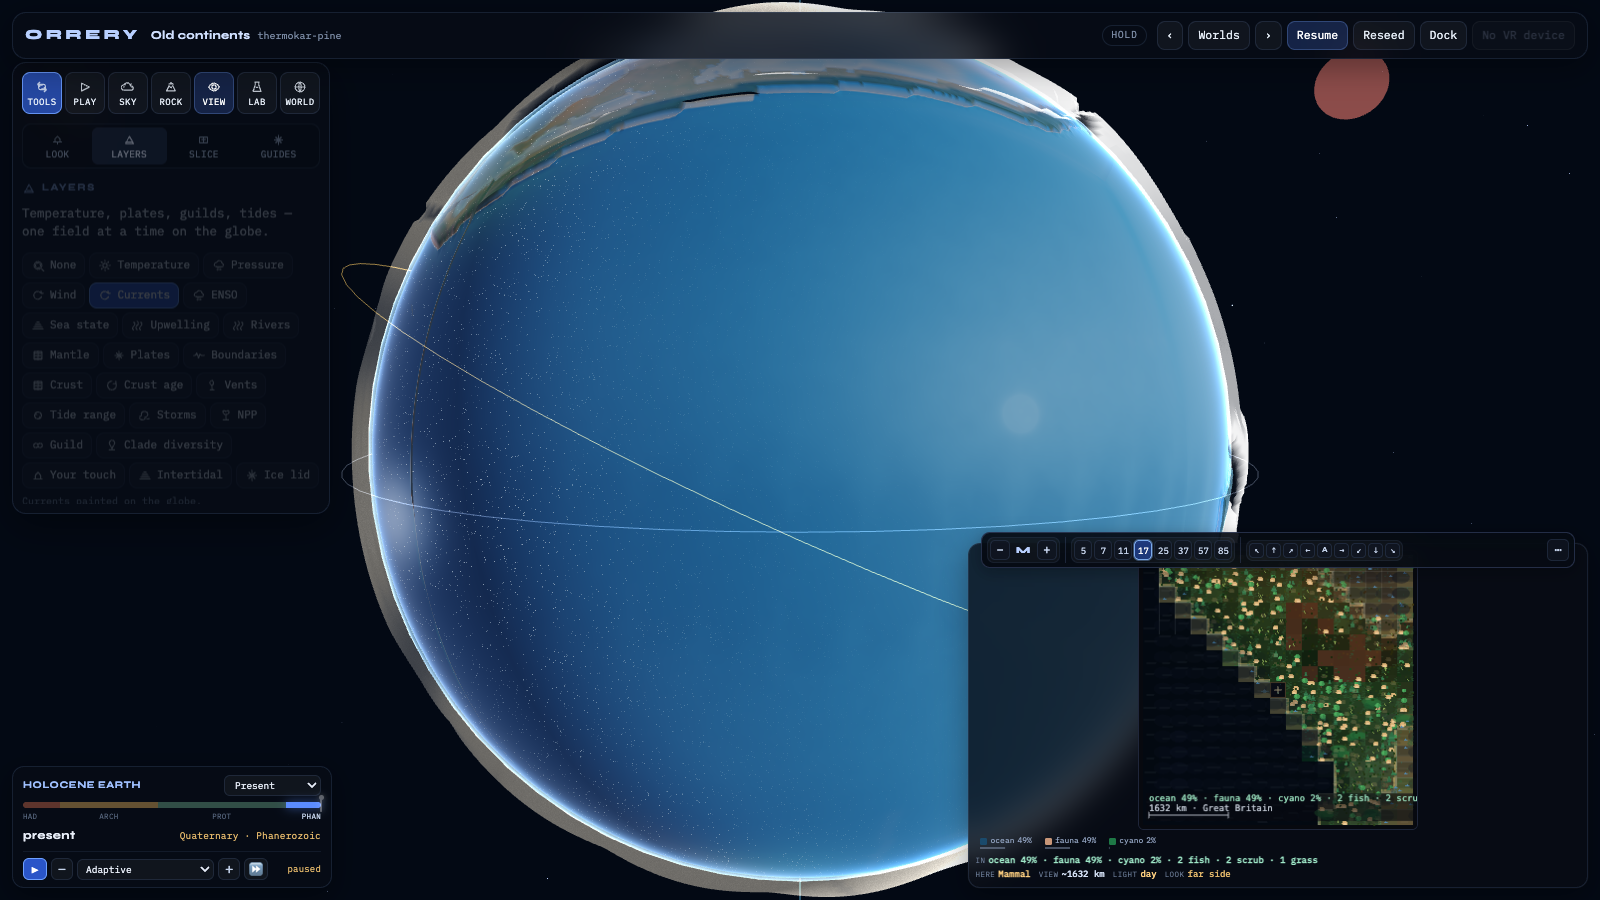
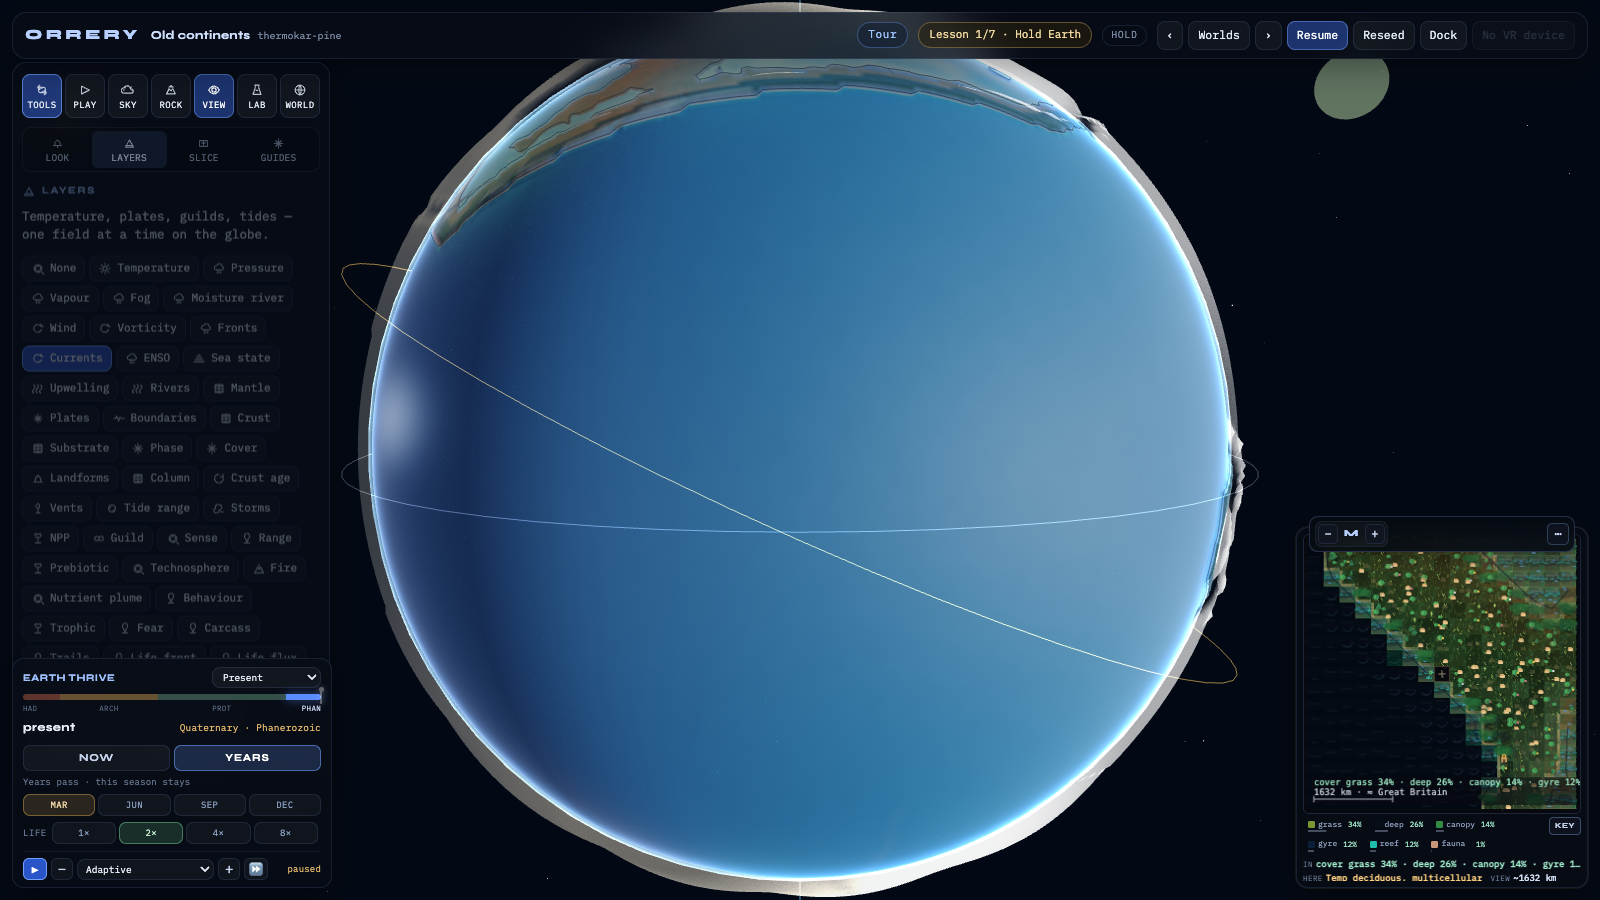
Refresh the pitch site with living-demo stills and links.
The published pages still showed last week's Earth; recapture from ?demo=1 and point the hub, briefs, and capture script at the world that actually moves.

diff --git a/site/index.html b/site/index.html
@@ -266,7 +266,7 @@ footer{margin-top:70px; padding-top:24px; border-top:1px solid var(--rule);
     <a href="fleet.html"><code>FL</code><span>Fleet contact — 120 bodies</span></a>
     <a href="https://claude.ai/code/artifact/220b7f00-e527-462b-88b7-989a16e022e9" target="_blank" rel="noopener"><code>BL*</code><span>Backlog (Claude artifact)</span></a>
   </div>
-  <div class="railfoot">Draft for review<br>2026-08-08</div>
+  <div class="railfoot">Live on GitHub Pages<br>2026-08-19</div>
 </nav>
 
 <main class="main">
@@ -284,11 +284,11 @@ footer{margin-top:70px; padding-top:24px; border-top:1px solid var(--rule);
   </dl>
   <p class="lede">Two companion briefs — product design and engineering — plus a working WebXR prototype of the substrate they both depend on. The second sentence of the thesis is the entire product; everything below is in service of making that descent feel inevitable rather than menu-driven.</p>
   <div class="shots">
-    <a href="../vr/" class="wide"><img src="img/earth-hud.png" width="1600" height="900" alt="Orrery Earth sandbox: globe, tools dock, time ribbon, and a first-free-oxygen moment"></a>
-    <a href="../vr/"><img src="img/earth-currents.png" width="1600" height="900" alt="Surface currents painted on the globe and in the local patch"></a>
+    <a href="../vr/?demo=1" class="wide"><img src="img/earth-hud.png" width="1600" height="900" alt="Orrery Earth sandbox: globe, tools dock, time ribbon, and a first-free-oxygen moment"></a>
+    <a href="../vr/?demo=1"><img src="img/earth-currents.png" width="1600" height="900" alt="Surface currents painted on the globe and in the local patch"></a>
     <a href="../vr/"><img src="img/worlds-picker.png" width="1600" height="900" alt="Worlds catalogue open beside the live planet"></a>
   </div>
-  <p class="shotcap">From the live prototype — Earth, currents overlay, worlds drawer. <a href="../vr/">Open it</a>.</p>
+  <p class="shotcap">From the live prototype — Earth, currents overlay, worlds drawer. <a href="../vr/?demo=1">Open the living demo</a>.</p>
 </header>
 
 <!-- ============================================================ FIGURE 1 -->
@@ -597,12 +597,12 @@ footer{margin-top:70px; padding-top:24px; border-top:1px solid var(--rule);
 <!-- ================================================================== P 0 -->
 <section id="proto">
   <div class="sechead"><code>P 0</code><h2>What is already running</h2></div>
-  <p>A single-file WebXR prototype, raw WebGL2, no dependencies. It is not the game — it is the substrate both briefs depend on, built so the load-bearing claims can be checked rather than asserted.</p>
+  <p>A single-file WebXR prototype, raw WebGL2, no dependencies. The demo opening is a living Earth: herds, hunts, colonisation fronts, births and deaths you can see. Calibration Earth stays pinned; thrive is the world that moves.</p>
   <div class="shots">
-    <a href="../vr/"><img src="img/earth-hud.png" width="1600" height="900" alt="Tools dock, Holocene ribbon, and Earth"></a>
-    <a href="../vr/"><img src="img/earth-local.png" width="1600" height="900" alt="Expanded local map of a coastal patch beside the globe"></a>
+    <a href="../vr/?demo=1"><img src="img/earth-hud.png" width="1600" height="900" alt="Tools dock, Holocene ribbon, and Earth"></a>
+    <a href="../vr/?demo=1"><img src="img/earth-local.png" width="1600" height="900" alt="Expanded local map of a coastal patch beside the globe"></a>
   </div>
-  <p class="shotcap">The two views at once: a planet you hold, and a pixel map of one patch of it.</p>
+  <p class="shotcap">The two views at once: a planet you hold, and a pixel map of one patch of it. <a href="../vr/?demo=1">Open the living demo</a>.</p>
   <div class="tw"><table>
     <thead><tr><th>Claim</th><th>Status</th></tr></thead>
     <tbody>
@@ -622,8 +622,9 @@ footer{margin-top:70px; padding-top:24px; border-top:1px solid var(--rule);
     <h3>Run it in the headset</h3>
     <p>Serve the folder over HTTP and open it in the Quest browser. The Quest treats <code>localhost</code> as a secure context, so <code>adb reverse</code> is enough — no HTTPS certificate needed. Press <strong>Enter VR</strong>; the planet appears at arm's length. Hold the trigger and move your hand to roll it, thumbstick to resize, A or X to cycle rulesets.</p>
     <p>On desktop it runs as an ordinary web page: drag to spin, scroll to zoom.</p>
-    <a class="btn" href="../vr/">Open the live prototype</a>
-    <a class="btn ghost" href="worlds.html">200 worlds catalogue</a>
+    <a class="btn" href="../vr/?demo=1">Open the living demo</a>
+    <a class="btn ghost" href="../vr/">Calibration Earth</a>
+    <a class="btn ghost" href="thrive.html">Thrive backlog</a>
   </div>
   <pre>python3 -m http.server 8777          <b># from the project root</b>
 adb reverse tcp:8777 tcp:8777        <b># with the headset connected over USB</b>

diff --git a/site/world-data.html b/site/world-data.html
@@ -270,6 +270,6 @@ footer{margin-top:48px;color:var(--faint);font:400 12px var(--mono);}
 
 <h2>Authored vs generated</h2>
 <p><code>substrates.json</code>, <code>cover.json</code>, <code>processes.json</code>, <code>landforms.json</code>, <code>columns.json</code>, <code>epochs.json</code>, <code>definitions.json</code>, <code>features.json</code> and <code>paint.json</code> are authored. <code>kinds.json</code> is a generated audit — do not edit it. Compiled modules live in <code>vr/sim/*Table.js</code> and <code>worldDef.js</code>. Nothing in <code>vr/sim/</code> may name a specific body except as a validation case or an override with a <code>why</code>.</p>
-<p>Compile: <code>node scripts/data.mjs</code> (370 ms this run). Epochs 15. Spectra 4. Named kinds 27. Named-kind regexes in planetKind: 0.</p>
+<p>Compile: <code>node scripts/data.mjs</code> (395 ms this run). Epochs 15. Spectra 4. Named kinds 27. Named-kind regexes in planetKind: 0.</p>
 <footer>Generated from <code>scripts/data.mjs</code> — edit the source, not this file.</footer>
 </div>

diff --git a/index.html b/index.html
@@ -24,4 +24,12 @@
   <a href="site/currents.html">Currents</a>
   <a href="site/realism.html">Realism</a>
   <a href="site/landscape.html">Landscape</a>
+  <a href="site/life.html">Life</a>
+  <a href="site/surface.html">Surface</a>
+  <a href="site/worldspace.html">World space</a>
+  <a href="site/openworld.html">Open world</a>
+  <a href="site/thrive.html">Thrive</a>
+  <a href="site/world-data.html">World data</a>
+  <a href="site/fleet.html">Fleet</a>
+  <a href="vr/?demo=1">Living demo</a>
 </p>
